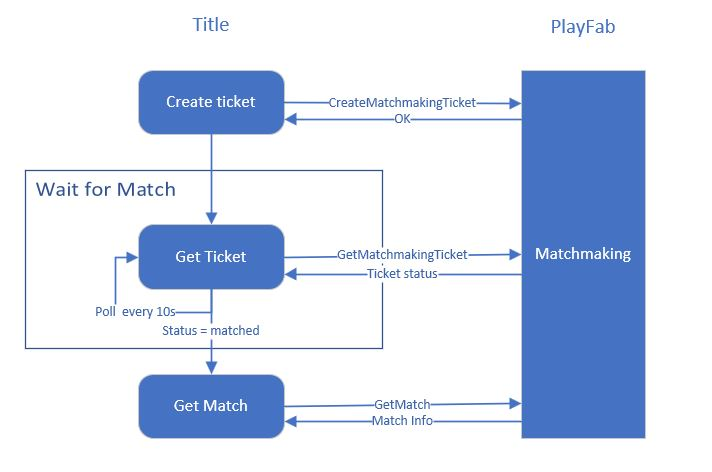
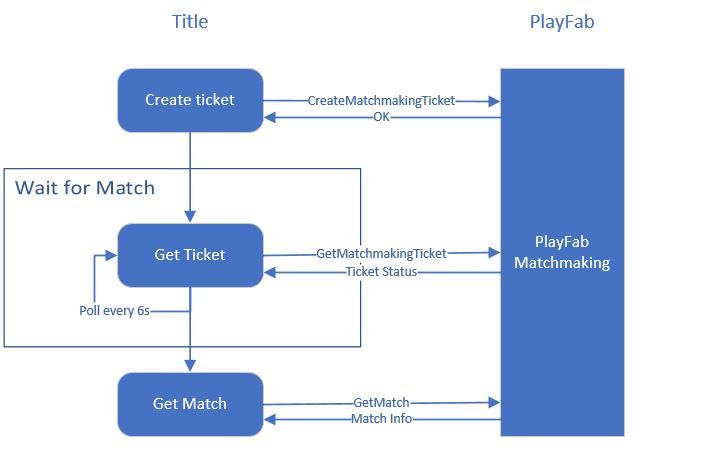
Changing the polling frequency for GetTicket (#695)
* Changing the polling frequency

* Update quickstart.md

Changed region(s): [[0.0, 0.1217, 0.9322, 0.9739], [0.7458, 0.0304, 0.8701, 0.0913], [0.2486, 0.0304, 0.3418, 0.0609]]

diff --git a/playfab-docs/features/multiplayer/matchmaking/quickstart.md b/playfab-docs/features/multiplayer/matchmaking/quickstart.md
@@ -75,7 +75,7 @@ PlayFabMultiplayerAPI.CreateMatchmakingTicket(
 
 ### Check the status of the matchmaking ticket
 
-You must poll the service by `TicketId` to access the `Status` of the ticket in matchmaking. In order to do so, have your title call [GetMatchmakingTicket](xref:titleid.playfabapi.com.multiplayer.matchmaking.getmatchmakingticket). We recommend polling for the ticket status every 10 seconds.
+You must poll the service by `TicketId` to access the `Status` of the ticket in matchmaking. In order to do so, have your title call [GetMatchmakingTicket](xref:titleid.playfabapi.com.multiplayer.matchmaking.getmatchmakingticket). You can poll up to 10 times per minute. For instance, poll for the ticket status every 6 seconds.
 
 When the status of
 the ticket changes to `Matched`, your client can stop polling the ticket. From that point on, the ticket will include the `MatchId`.
@@ -109,8 +109,7 @@ PlayFabMultiplayerAPI.GetMatch(
 
 ### Cancelling a matchmaking ticket
 
-If for some reason your client wants to cancel the matchmaking process prior to `GiveUpAfterSeconds` being reached, call [CancelMatchmakingTicket](xref:titleid.playfabapi.com.multiplayer.matchmaking.cancelmatchmakingticket) with the `TicketId`. If a match hasn’t already been found, the ticket is taken
-out of the matchmaking process and its status changes to `Canceled`.
+If for some reason your client wants to cancel the matchmaking process prior to `GiveUpAfterSeconds` being reached, call [CancelMatchmakingTicket](xref:titleid.playfabapi.com.multiplayer.matchmaking.cancelmatchmakingticket) with the `TicketId`. If a match hasn’t already been found, the ticket is taken out of the matchmaking process and its status changes to `Canceled`.
 
 ```csharp
 PlayFabMultiplayerAPI.CancelMatchmakingTicket(
@@ -171,8 +170,7 @@ The rest of the process is the same as that of [single user ticket matchmaking](
 
 Once your players have matched, you will want to have them join each other - either through a server, or by peer-to-peer connections.
 
-If you are using a dedicated server, you can rely on the Match ID to uniquely identify the group of players they should be in.  If you are using PlayFab's
-multiplayer servers, `GetMatch` will provide a server and port for your players to connect to.
+If you are using a dedicated server, you can rely on the Match ID to uniquely identify the group of players they should be in. If you are using PlayFab's multiplayer servers, `GetMatch` will provide a server and port for your players to connect to.
 
 Please refer to [Integrating with PlayFab Multiplayer Servers](multiplayer-servers.md) for more information.
 
